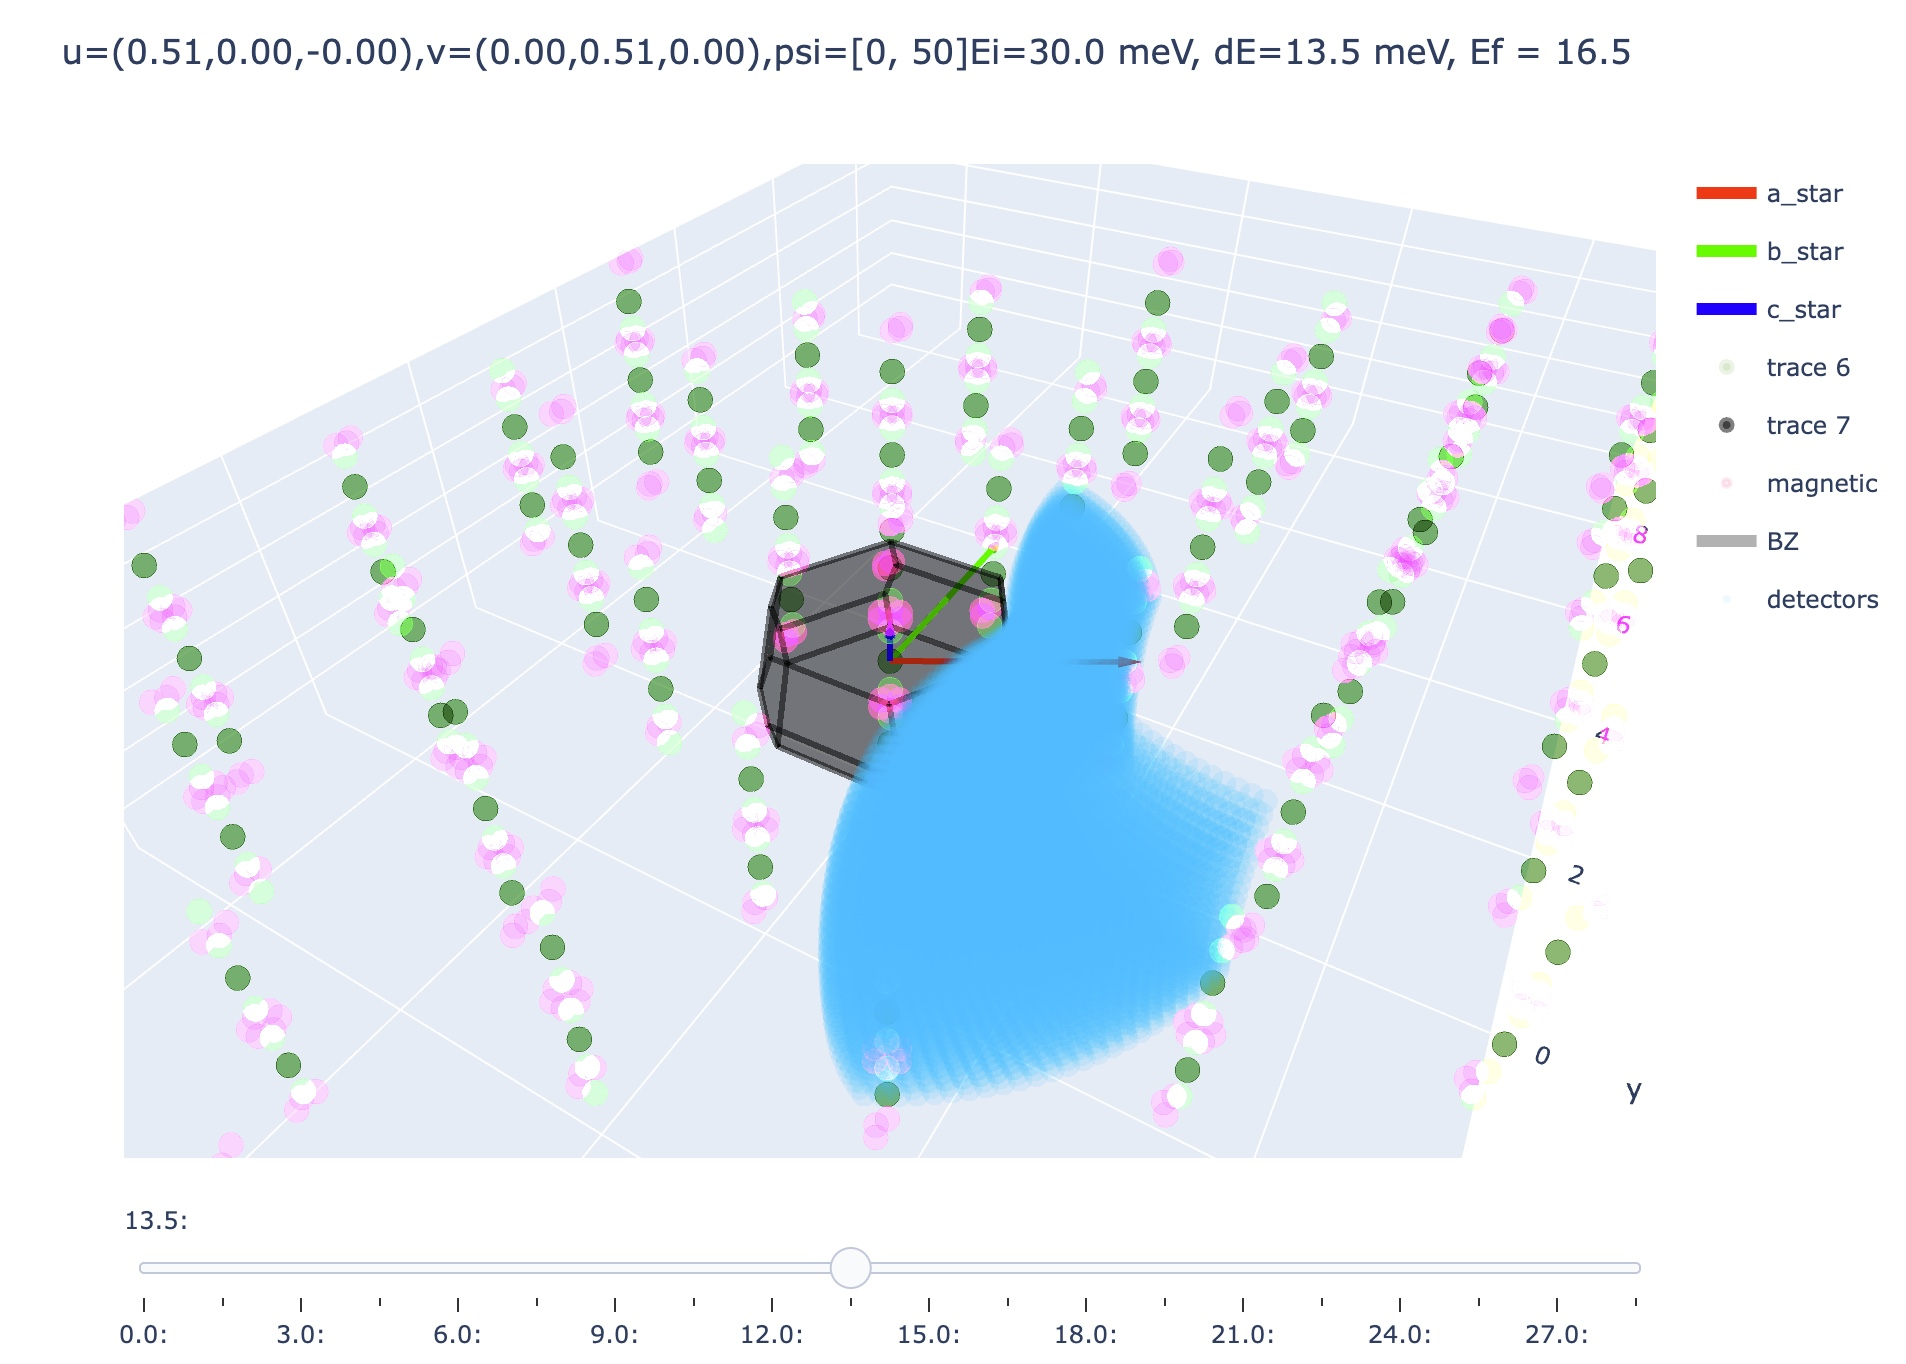
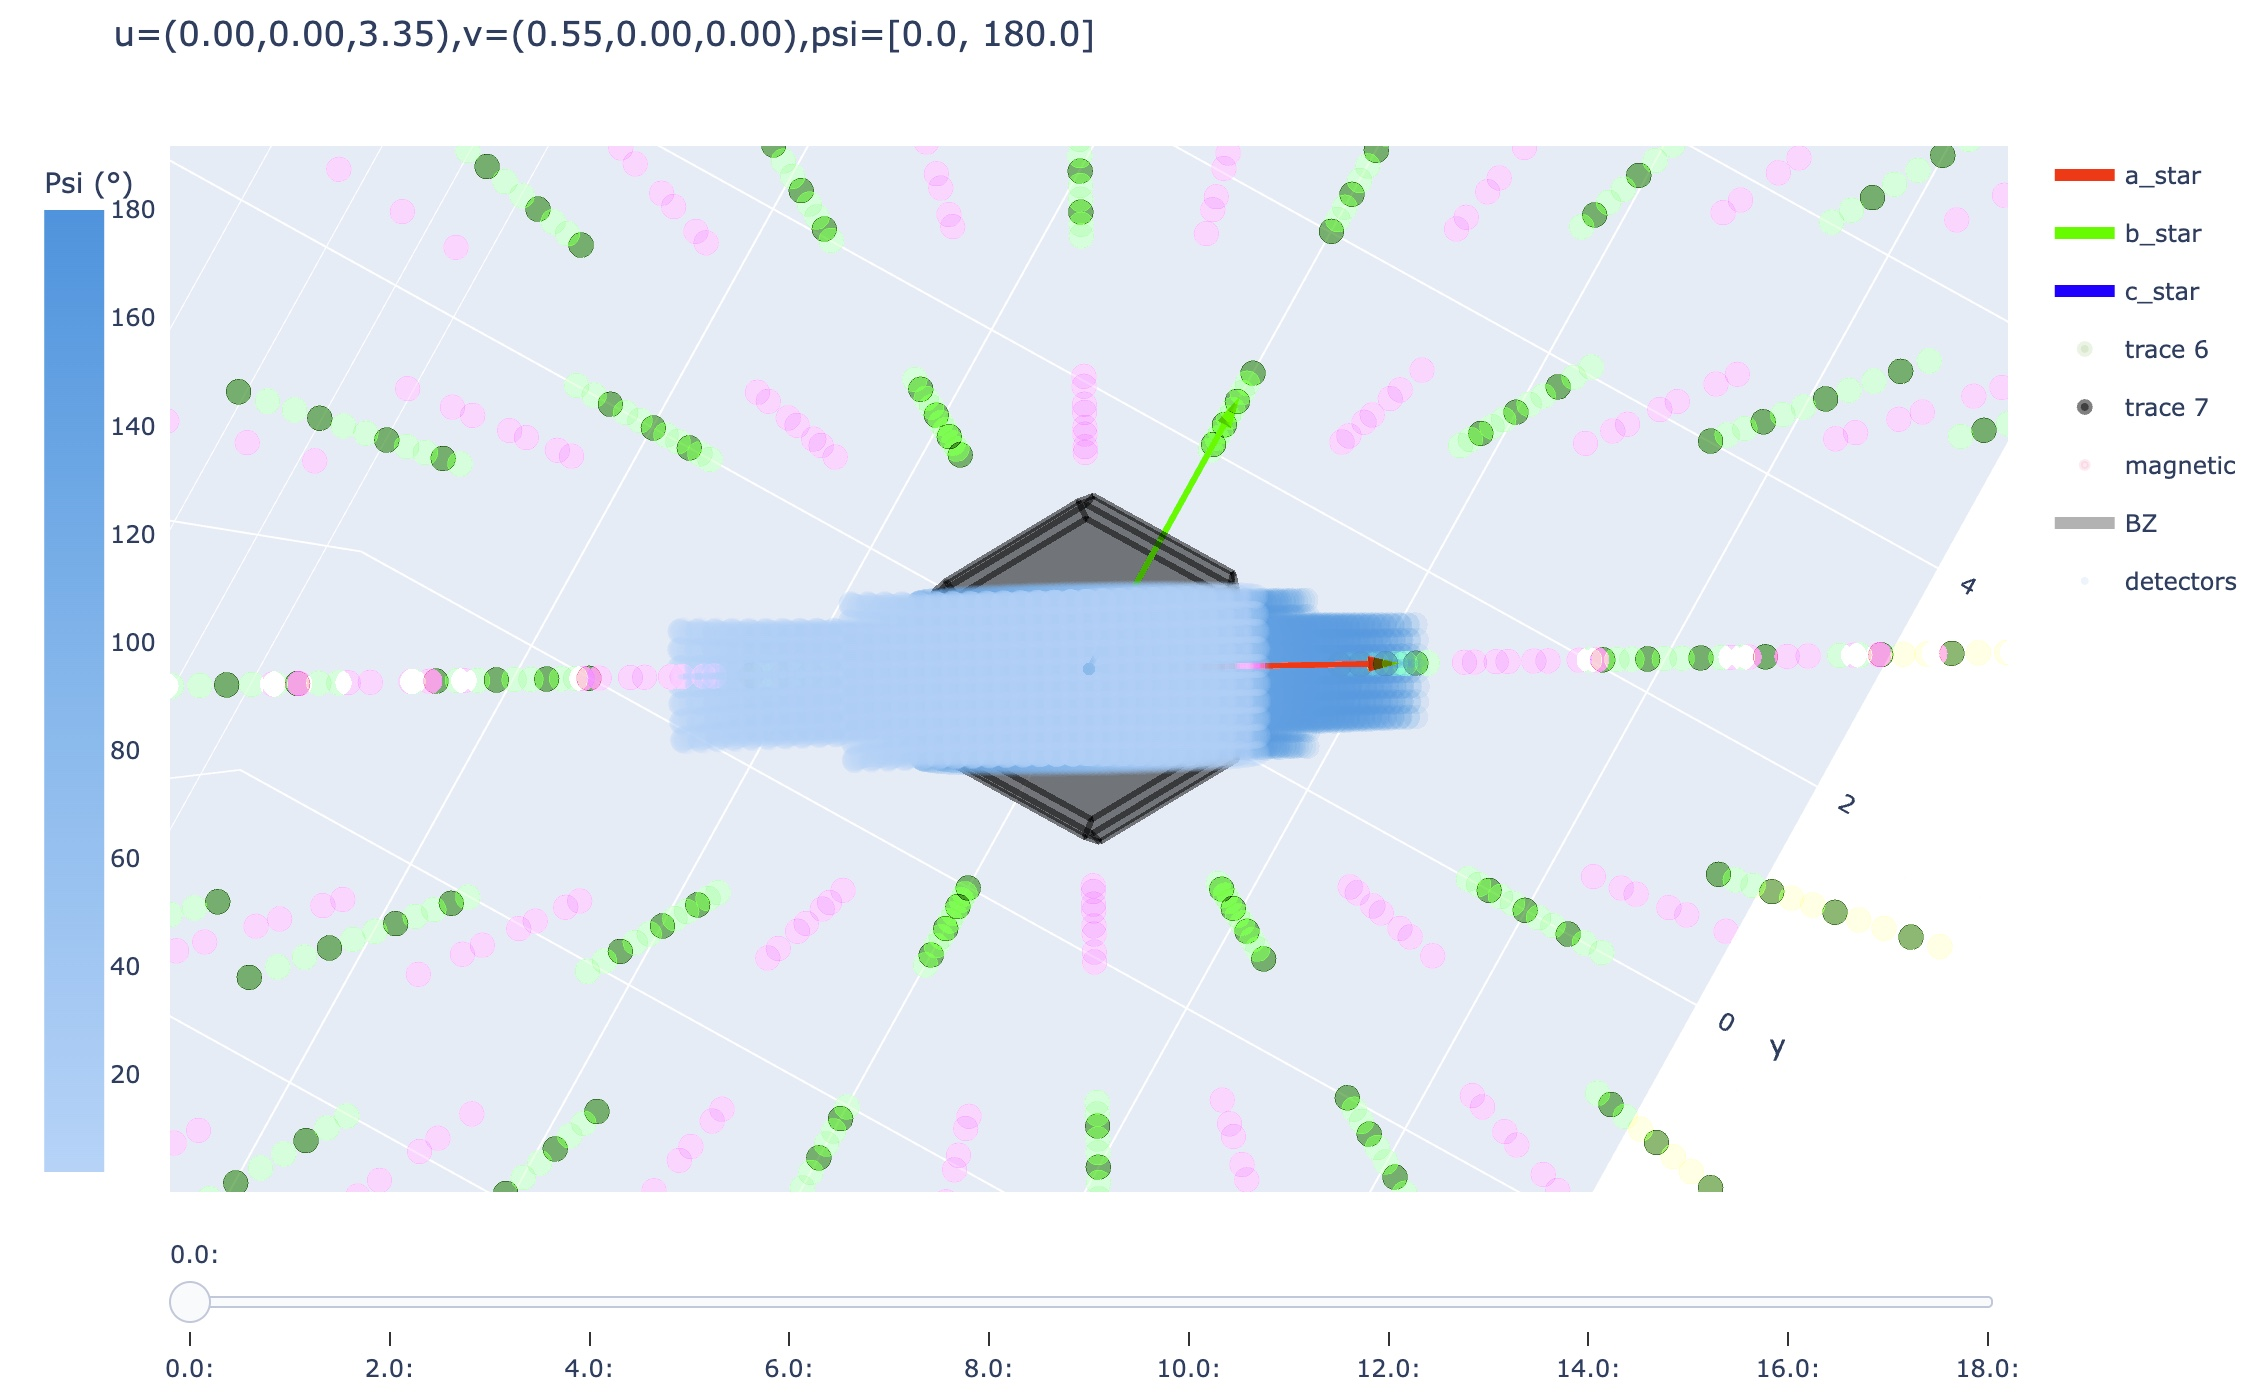
update

diff --git a/README.md b/README.md
@@ -95,7 +95,13 @@ KSpace3D(lattice, detector).plot(
 ```
 
 示例 Example
-<div align=center><img src="assets/example_3d_k_space.jpg" /></div>
+<div align="center">
+  <a href="assets/example_3d_k_space.html">
+    <img src="assets/example_3d_k_space.jpg" alt="3D K-space" style="max-width:100%;">
+  </a>
+  <br>
+  <a href="assets/example_3d_k_space.html">👉 点击查看交互式三维图 / Click to view interactive 3D plot</a>
+</div>
 
 
 ##### 二维K空间 2D K space
@@ -147,7 +153,13 @@ KSpace2D(lattice, norm, plane_point, thick, new_ex, detector).plot(
 ```
 
 示例 Example
-<div align=center><img src="assets/example_2d_k_space.jpg" /></div>
+<div align="center">
+  <a href="assets/example_2d_k_space.html">
+    <img src="assets/example_2d_k_space.jpg" alt="2D K-space" style="max-width:100%;">
+  </a>
+  <br>
+  <a href="assets/example_2d_k_space.html">👉 点击查看交互式二维图 / Click to view interactive 2D plot</a>
+</div>
 
 
 ##### 一维Q-E覆盖图 1D Q-E coverage
@@ -207,7 +219,12 @@ Detector1DPlotter(
 ```
 
 示例 Example
-<div align=center><img src="assets/example_1d_k_space.jpg" /></div>
+<div align="center">
+  <a href="assets/example_1d_k_space.html">
+    <img src="assets/example_1d_k_space.jpg" alt="1D Q-E" style="max-width:100%;">
+  </a>
+  <br>
+</div>
 
 ---
 